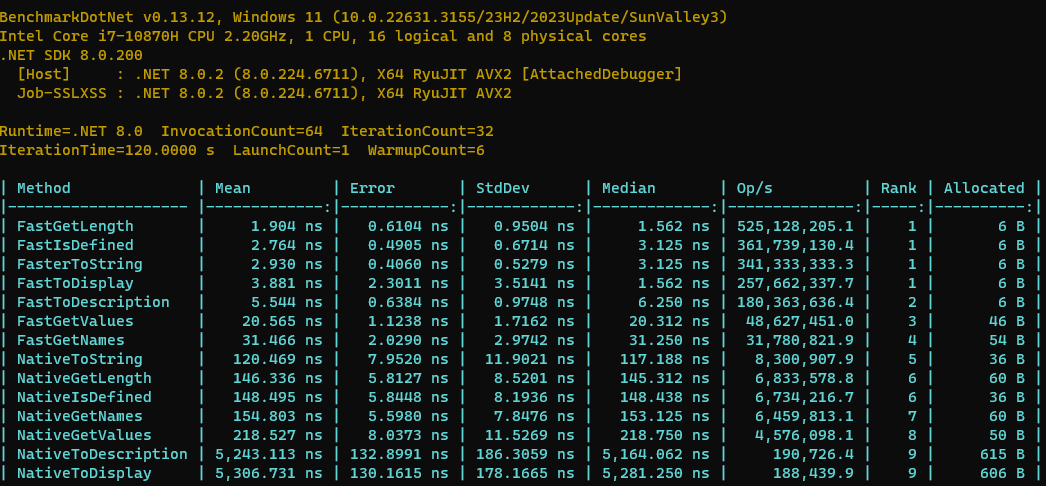
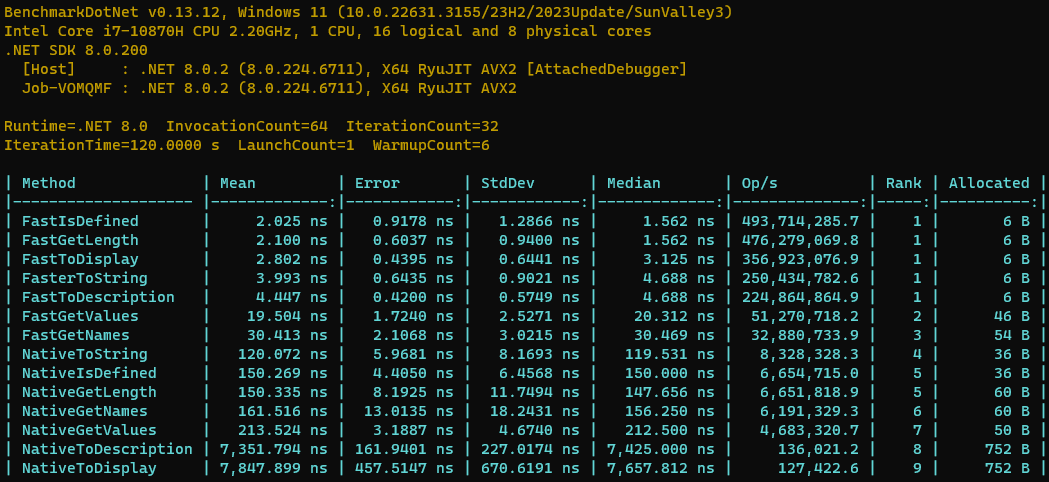
feat: update benchmark

Changed region(s): [[0.0, 0.3734, 1.0, 0.9959], [0.0, 0.0, 0.7036, 0.2178], [0.0, 0.249, 0.4895, 0.3423]]

diff --git a/test/Console.Test.Benchmark/Program.cs b/test/Console.Test.Benchmark/Program.cs
@@ -21,9 +21,9 @@ namespace Console.Test.Benchmark;
 [EnumGenerator]
 public enum UserType
 {
-    [Display(Name = "مرد")] Men,
+    [Display(Name = "مرد", Description = "men")] Men,
 
-    [Display(Name = "زن")] Women,
+    [Display(Name = "زن", Description = "women")] Women,
 
     //[Display(Name = "نامشخص")]
     None
@@ -45,7 +45,7 @@ public class Program
             .AddColumn(StatisticColumn.OperationsPerSecond)
             .AddColumn(BaselineRatioColumn.RatioMean)
             .AddColumn(RankColumn.Arabic)
-            .AddJob(Job.Default.WithRuntime(CoreRuntime.Core60)
+            .AddJob(Job.Default.WithRuntime(CoreRuntime.Core80)
                 .WithIterationCount(32)
                 .WithInvocationCount(64)
                 .WithIterationTime(TimeInterval.FromSeconds(120))
@@ -95,6 +95,18 @@ public class EnumBenchmark
     public string FastToDisplay()
     {
         return UserType.Men.ToDisplayFast();
+    }
+
+    [Benchmark]
+    public string NativeToDescription()
+    {
+        return UserType.Men.ToDescriptionNative();
+    }
+
+    [Benchmark]
+    public string FastToDescription()
+    {
+        return UserType.Men.ToDescriptionFast();
     }
 
     [Benchmark]
@@ -148,6 +160,21 @@ public static class Ext
             return value.ToString();
 
         var propValue = attribute.GetType().GetProperty("Name")?.GetValue(attribute, null);
+
+        return propValue?.ToString();
+    }
+    public static string ToDescriptionNative(this Enum value)
+    {
+        if (value is null)
+            throw new ArgumentNullException(nameof(value));
+
+        var attribute = value.GetType().GetField(value.ToString())?
+            .GetCustomAttributes<DisplayAttribute>(false).FirstOrDefault();
+
+        if (attribute == null)
+            return value.ToString();
+
+        var propValue = attribute.GetType().GetProperty("Description")?.GetValue(attribute, null);
 
         return propValue?.ToString();
     }
